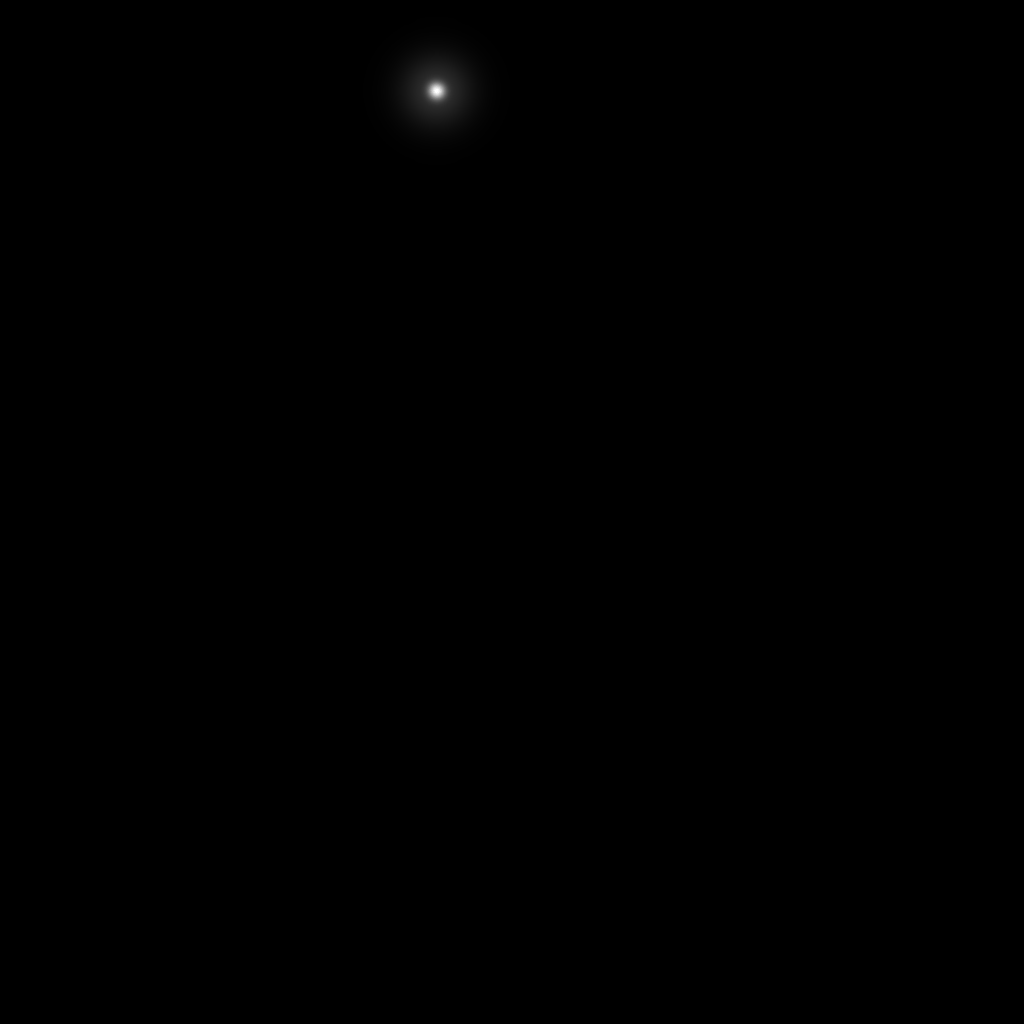
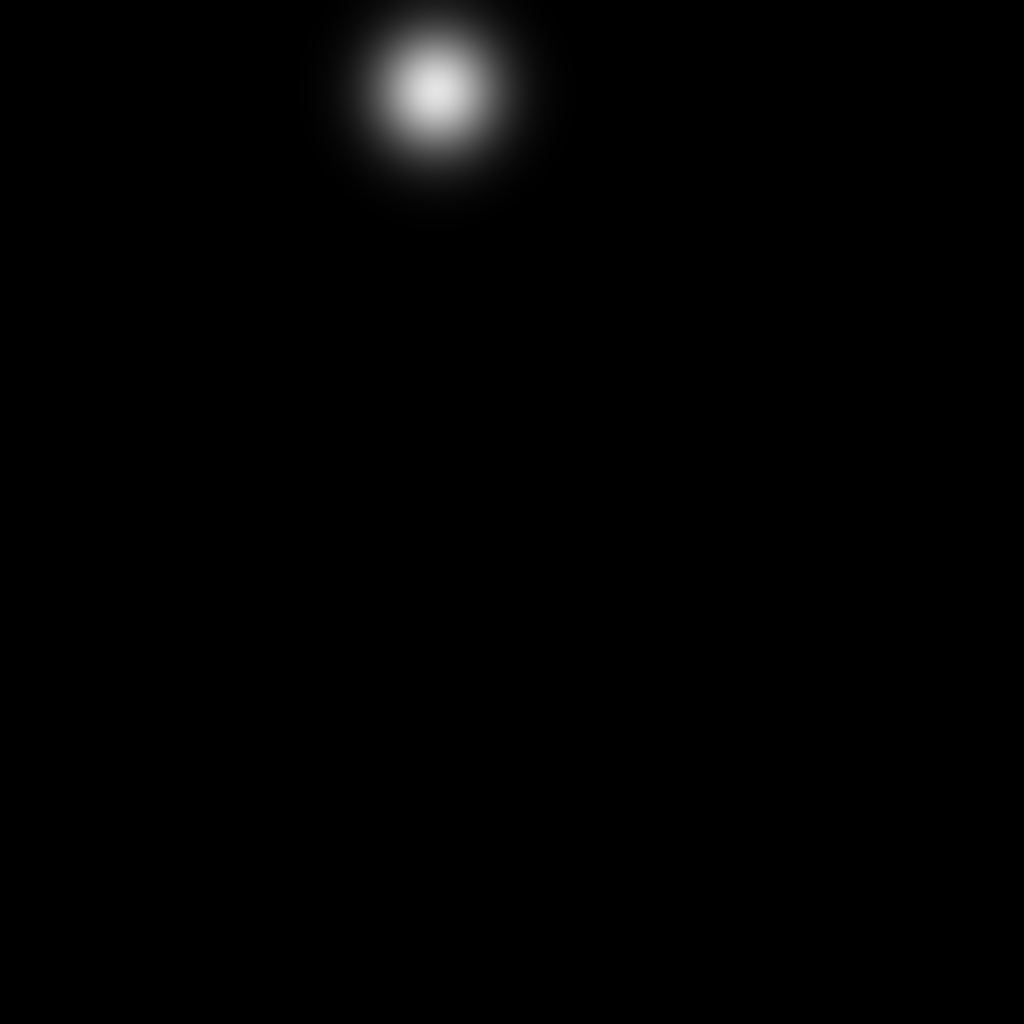
Volumetric lighting more realistic (I hope). Also performance benefit for water

Changed region(s): [[0.3438, 0.0, 0.5312, 0.1875]]

diff --git a/game/plugins/Sky/Sky.py b/game/plugins/Sky/Sky.py
@@ -74,6 +74,7 @@ class Sky:
         tagstatenode = NodePath('SunOverrideState')
         tagstatenode.setColorScale(1, 1, 1, 1, 10001)
         tagstatenode.setTexture(loader.loadTexture(os.path.join(basePath, sunmask.get('filename'))))
+        cam.node().setCameraMask(BitMask32.bit(2))
         cam.node().setInitialState(initstatenode.getState())
         cam.node().setTagStateKey('sun')
         cam.node().setTagState('True', tagstatenode.getState())
@@ -86,9 +87,10 @@ class Sky:
         self.finalQuad.setAttrib(ColorBlendAttrib.make(ColorBlendAttrib.MAdd))
         self.finalQuad.setShader(Shader.load(os.path.join(manager.get('paths').getConfig().find('shaders').get('path'), 'filter-vlight.cg')))
         self.finalQuad.setShaderInput('src', self.vltexture)
-        self.finalQuad.setShaderInput('vlparams', 32, 1.0/32.0, 1.0, 0.03)
+        self.finalQuad.setShaderInput('vlparams', 32, 0.9/32.0, 0.97, 0.5)
         self.finalQuad.setShaderInput('casterpos', 0.5, 0.5, 0, 0)
-        vlcolor = Vec4(float(godrays.get('r', '1')), float(godrays.get('g', '1')), float(godrays.get('b', '1')), 1)
+        # Last parameter to vlcolor is the exposure
+        vlcolor = Vec4(float(godrays.get('r', '1')), float(godrays.get('g', '1')), float(godrays.get('b', '1')), 0.05)
         self.finalQuad.setShaderInput('vlcolor', vlcolor)
         self.updateTask = taskMgr.add(self.update, 'sky-update')
 

diff --git a/game/plugins/Water/Water.py b/game/plugins/Water/Water.py
@@ -49,6 +49,8 @@ class Water:
     else:
       self.surface = generateWaterSurface()
     self.surface.reparentTo(render)
+    self.surface.hide(BitMask32.bit(1)) # Invisible to reflection camera (speedup)
+    self.surface.hide(BitMask32.bit(2)) # Invisible to volumetric lighting camera (speedup)
     self.surface.setShader(loader.loadShader('data/shaders/water.cg'))
     self.surface.setShaderInput('time', 0.0, 0.0, 0.0, 0.0)
     ntex = loader.loadTexture('data/textures/water-normal.png')
